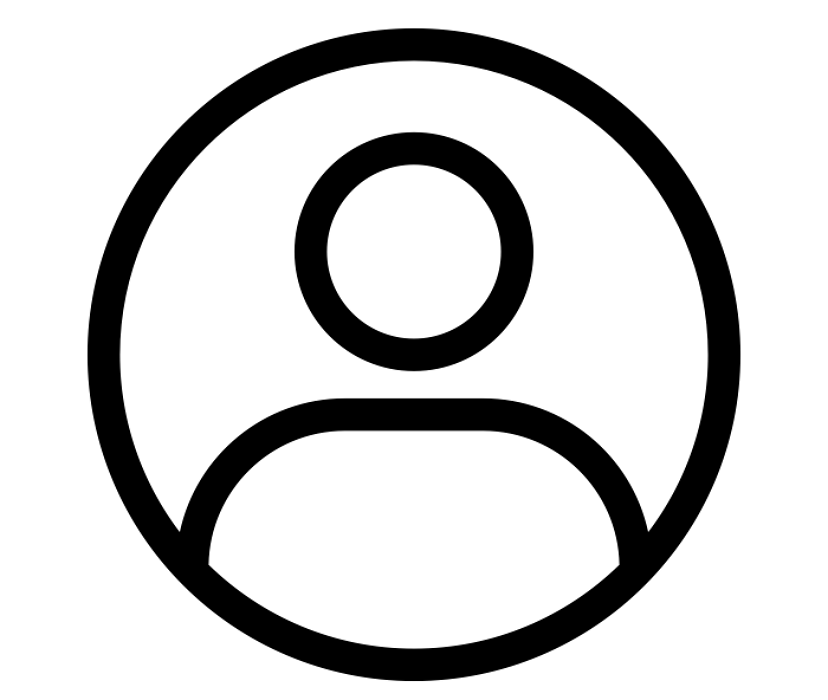
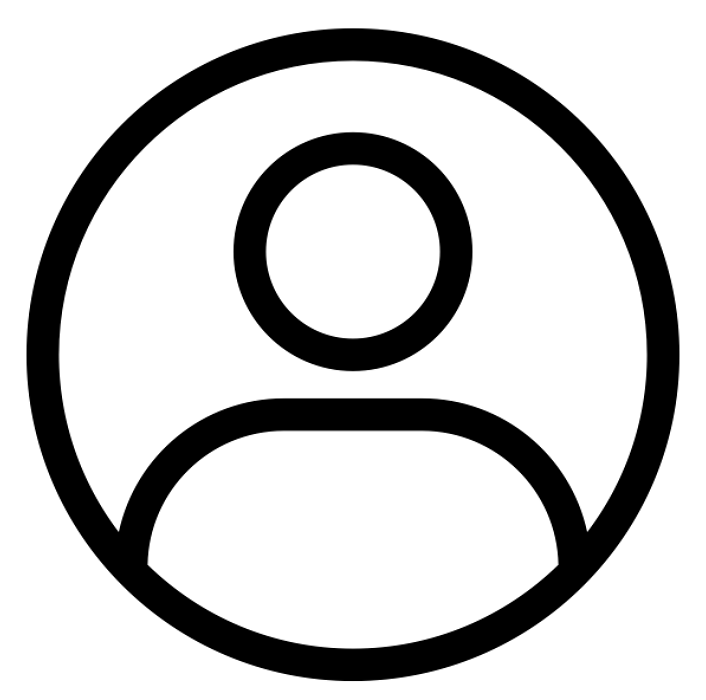
2018-02-07

diff --git a/_includes/title.html b/_includes/title.html
@@ -5,8 +5,8 @@
 	<div class="col-md-4 col-md-offset-1">
 		<h1>
 			<img src="{{ site.url }}/assets/title/profile.png" width="15%">
-			<img src="{{ site.url }}/assets/title/profile.png" width="15%">
-			<img src="{{ site.url }}/assets/title/profile.png" width="15%">
+			<img src="{{ site.url }}/assets/title/tag.png" width="15%">
+			<img src="{{ site.url }}/assets/title/partner.png" width="15%">
 		</h1>
 	</div>
 </div>
